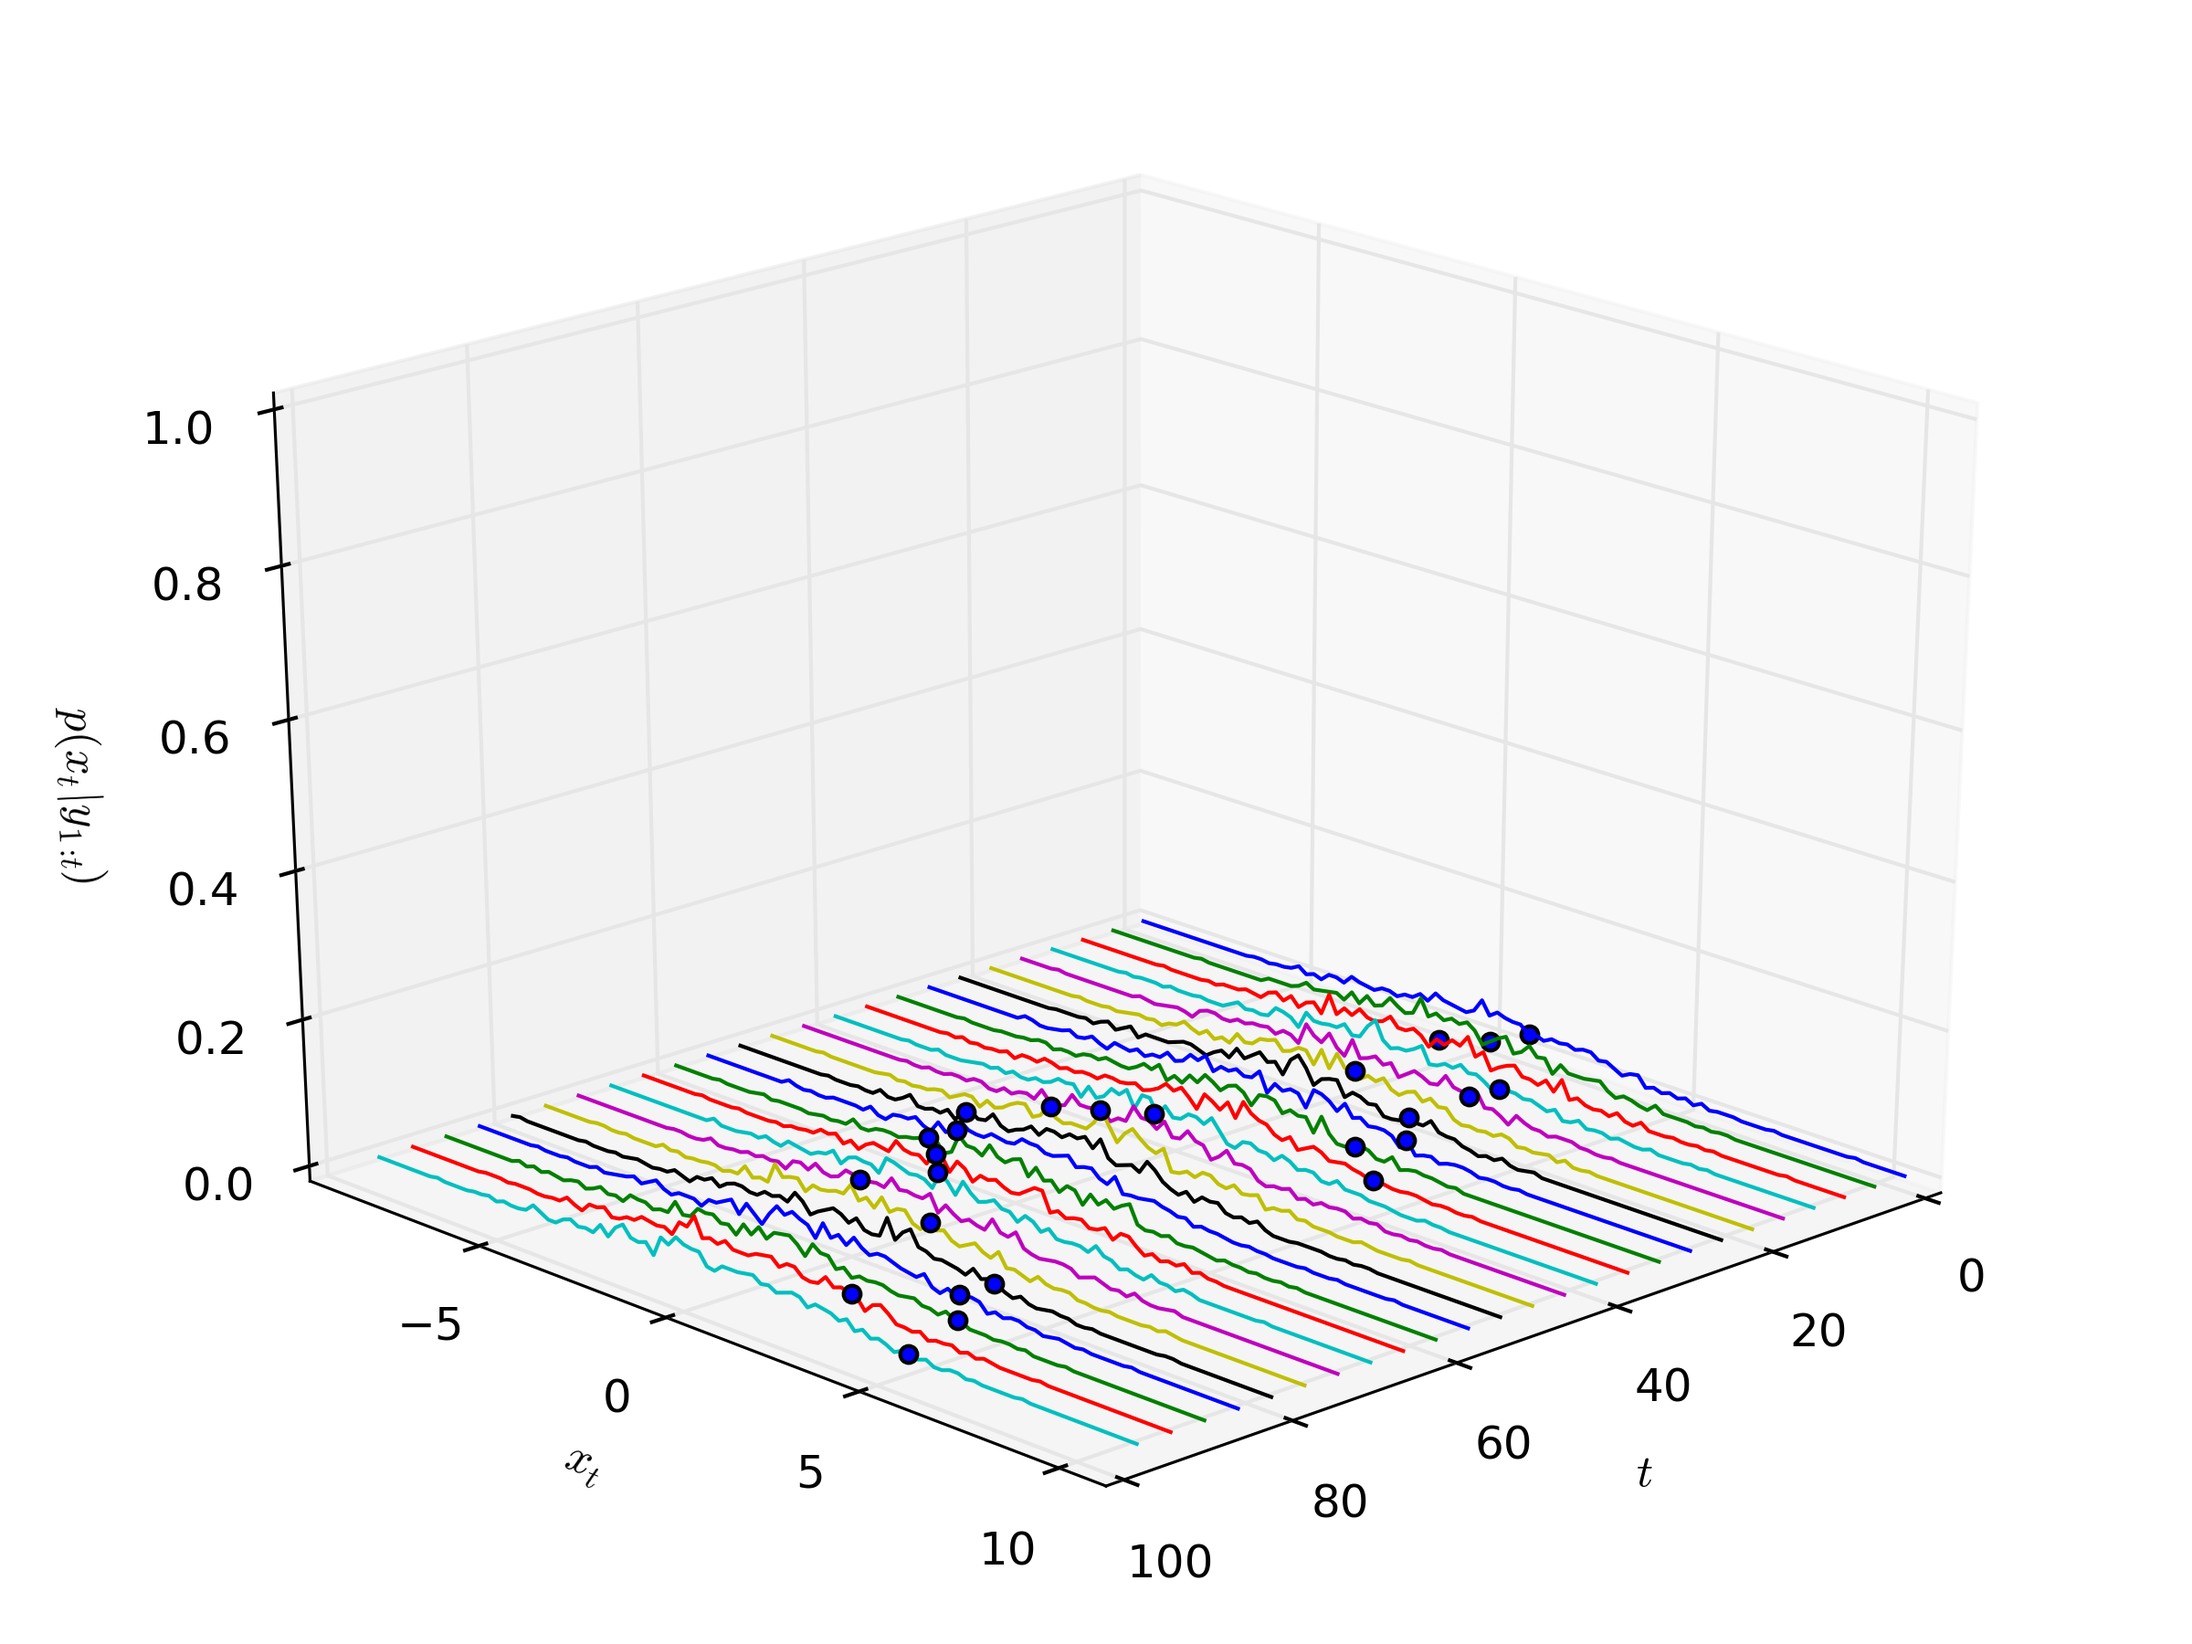
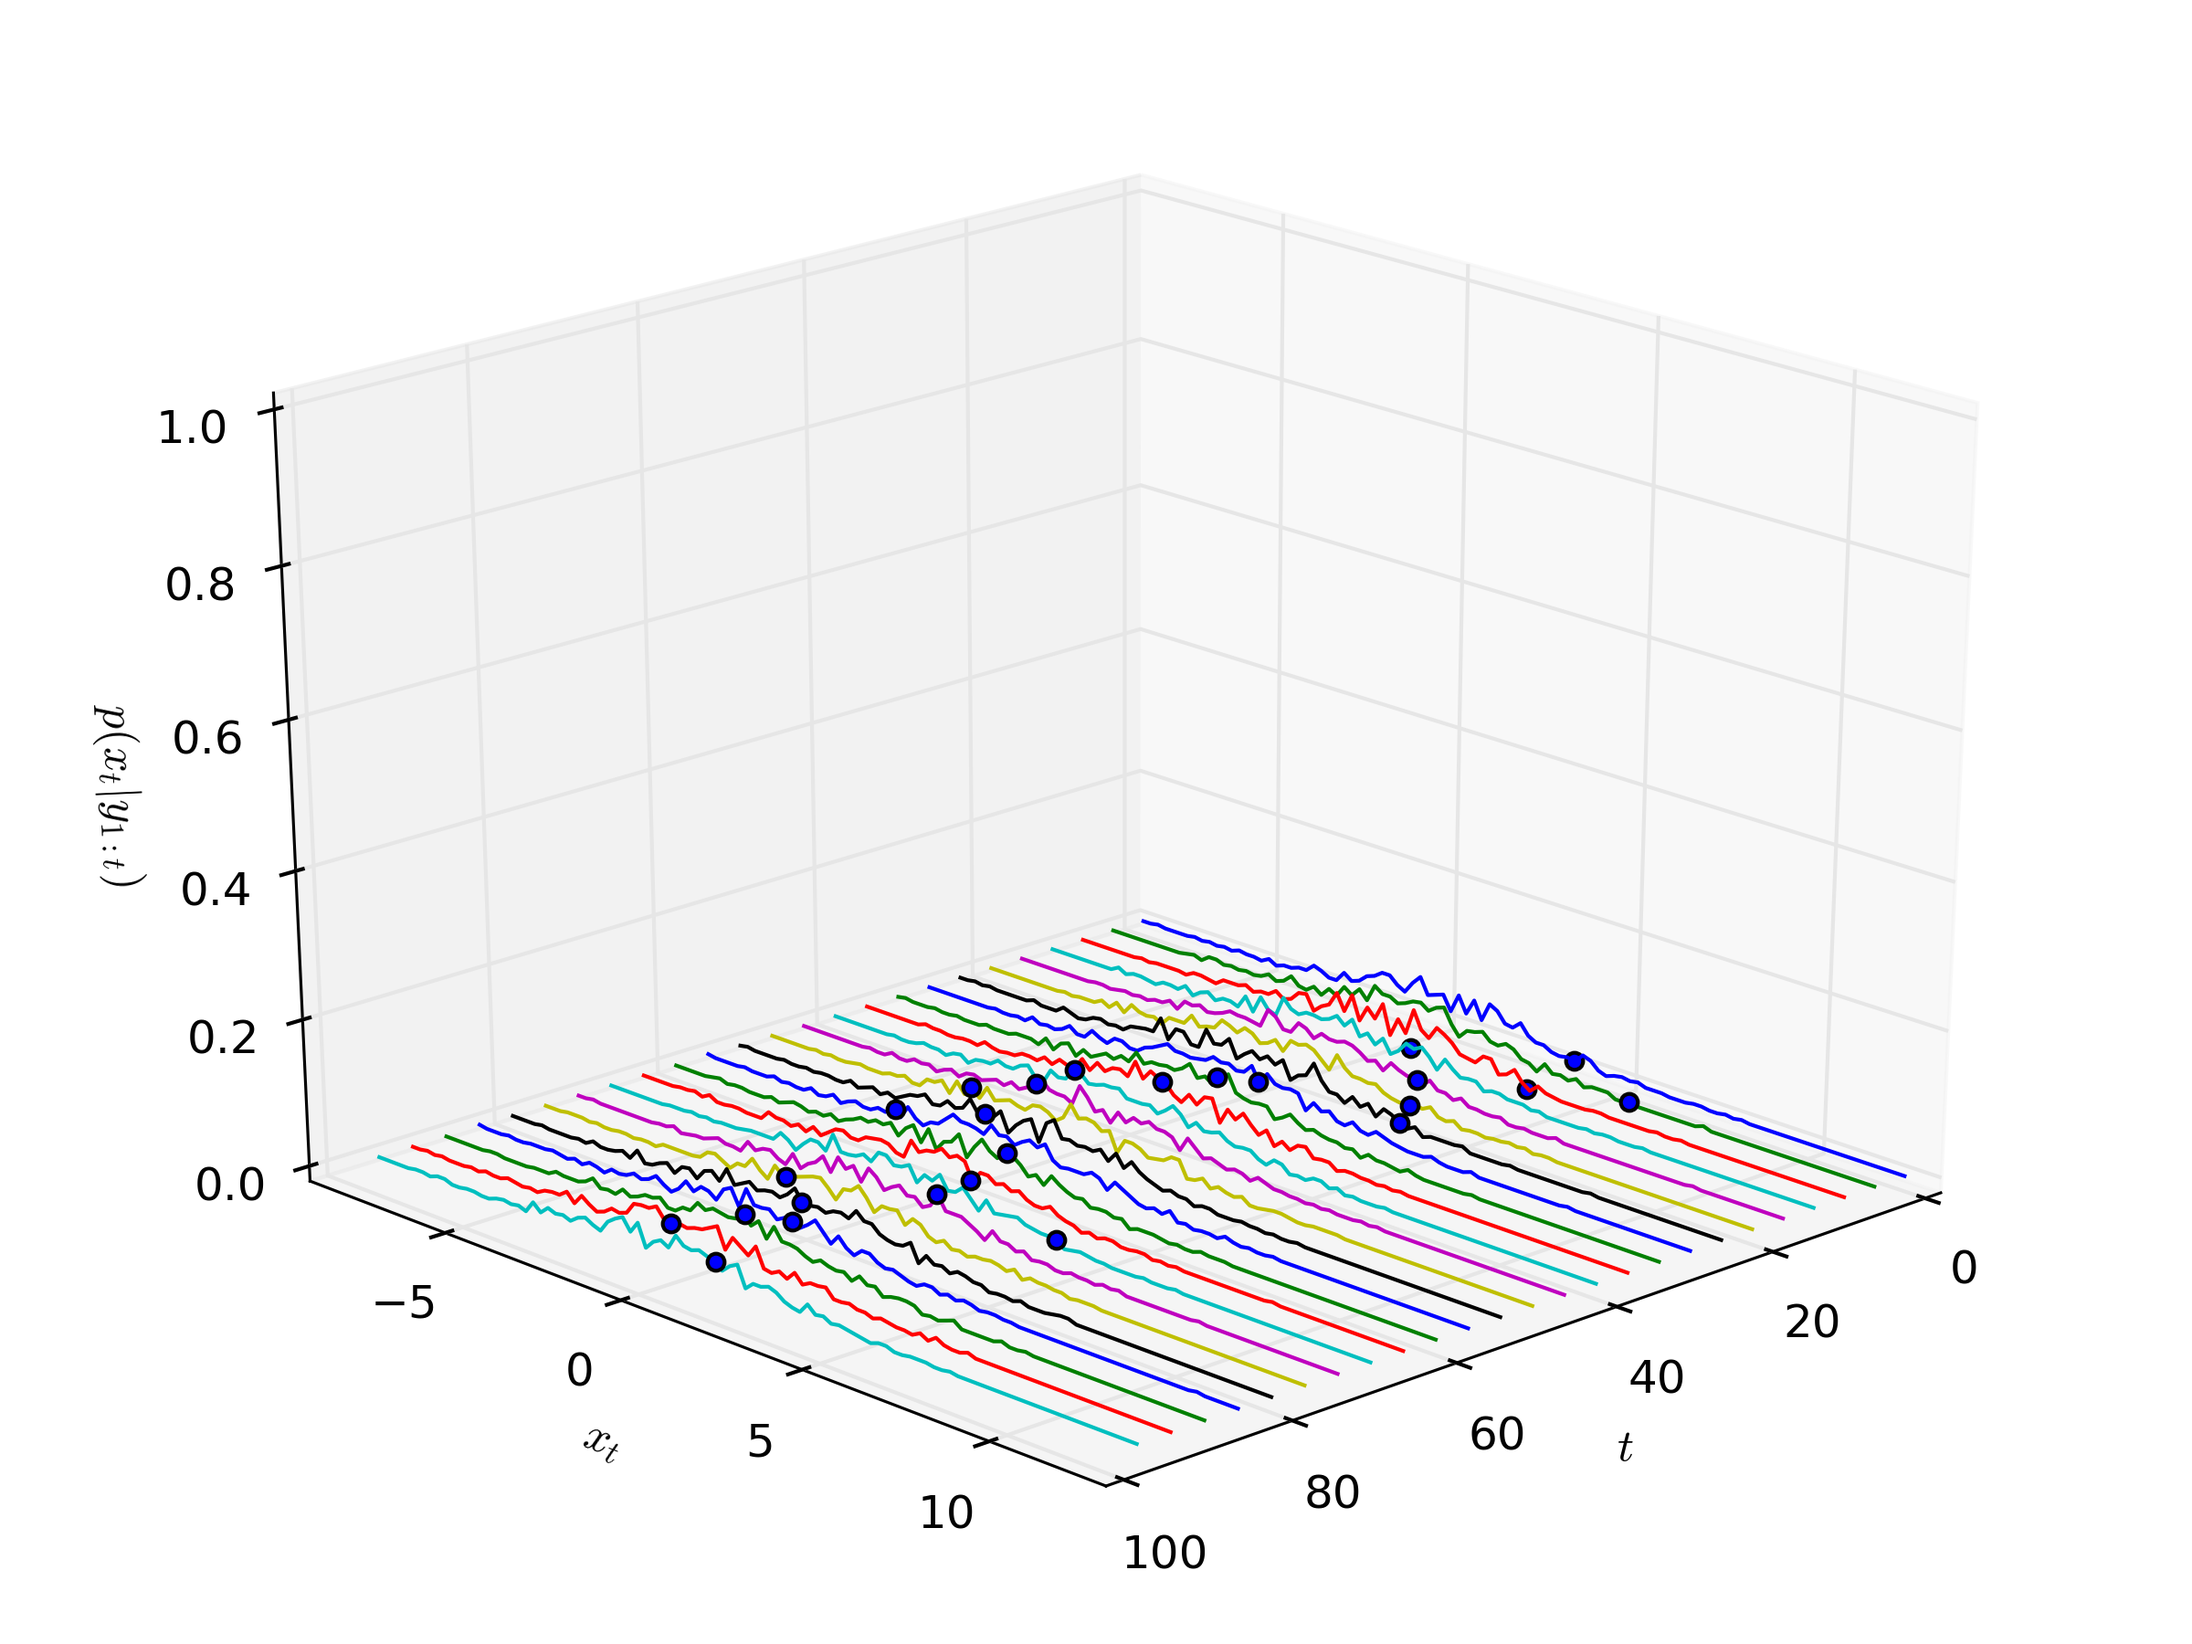
Implemented APF method

diff --git a/smc/filters.py b/smc/filters.py
@@ -10,6 +10,46 @@ from smc import models
 
 info = lambda *a, **k: print(*a, file=sys.stderr, **k)
 
+def apf(model, observations, N):
+    "auxiliary particle filtering"
+    # Assumptions: q = f, and as stated in reference 23,
+    # "A note on auxiliary particle filters", the function
+    # p(y_t|x_t-1) is approximated as g(y_t|mu(x_t-1)), where
+    # mu is the mode, mean, or median of the function f(x_t|x_t-1). As
+    # f is a gaussian distribution in our case, the mean = median = mode.
+    # This assumption could lead to an estimator with a very large or infinite
+    # variance. If one attempts to calculate the integral that gives p(y_t|x_t-1), one
+    # will arrive with an integrand that is of the form exp(exp(x)), i.e. intractable. An approximation
+    # of this integral should be possible to calculate using numerical approaches.
+    T = len(observations)
+    X = np.zeros((T,N))
+    W = np.zeros((T,N))
+
+    for t, y in enumerate(observations):
+        if t == 0: #Init, T = 0: w_1 = g(y_1|x_1) * g(y_2|alpha*x_1):
+            X[t, :] = model.p_initial.rvs(N)
+            W[t, :] = model.p_emission(t, X[t, :]).pdf(y)*model.p_emission(t, X[t, :]*model.alpha).pdf(y)
+            #print("In t == 0, y -->" + str(y))
+        else: #T > 0: a_n = g(y_n|x_n) * g(y_n+1|alpha*x_n)/g(y_n|alpha*x_n-1)
+            X[t, :] = model.sample_transitions(t, X[t-1, :])
+            W[t, :] = model.p_emission(t, X[t, :]).pdf(y)*model.p_emission(t, X[t, :]*model.alpha).pdf(y)
+
+            denominator = model.p_emission(t, X[t-1, :]*model.alpha).pdf(y)
+            #print("min value denominator " + str(min(denominator)))
+            #print(str(len(denominator)))
+            denominator = [10**(-300) if (x==0) else x for x in denominator]
+            #print(str(min(W[t,:])))
+            W[t, :] = np.divide(W[t, :],denominator)
+            #print(str(min(W[t,:])))
+            #print("----")
+        W[t, :] = W[t, :] / W[t, :].sum()
+        resampled = np.random.choice(N, N, p=W[t, :])
+        info('t {}, eliminated {:.2f}% of particles'.format(t, 100*(1 - len(set(resampled))/N)))
+        X[t, :] = X[t, resampled]
+
+    print(str(X.shape) + " " + str(W.shape))
+    return X, W
+
 def sis(model, observations, N):
     "sequential important sampling"
     T = len(observations)
@@ -99,7 +139,7 @@ if __name__ == "__main__":
     # generate some data and filter it
     import os
     model = eval(os.environ.get('MODEL', 'models.stochastic_volatility.doucet_example_model'))()
-    method = os.environ.get('METHOD', 'sir')
+    method = os.environ.get('METHOD', 'apf')
     T = int(os.environ.get('T', '100'))
     N = int(os.environ.get('N', '500'))
     outname = os.environ.get('OUTPUT')
@@ -118,7 +158,12 @@ if __name__ == "__main__":
         filter_mean = X.mean(axis=1)
         filter_sd = X.std(axis=1)
 
+
+
+
     plot_estimate(filter_mean, filter_sd)
+    plt.show()
+    '''
     plot_particle_distribution(X, W)
     ax = plot_distribution(X)
     plt.tight_layout()
@@ -134,3 +179,4 @@ if __name__ == "__main__":
     else:
         ax.view_init(25, 45)
         plt.show()
+'''
